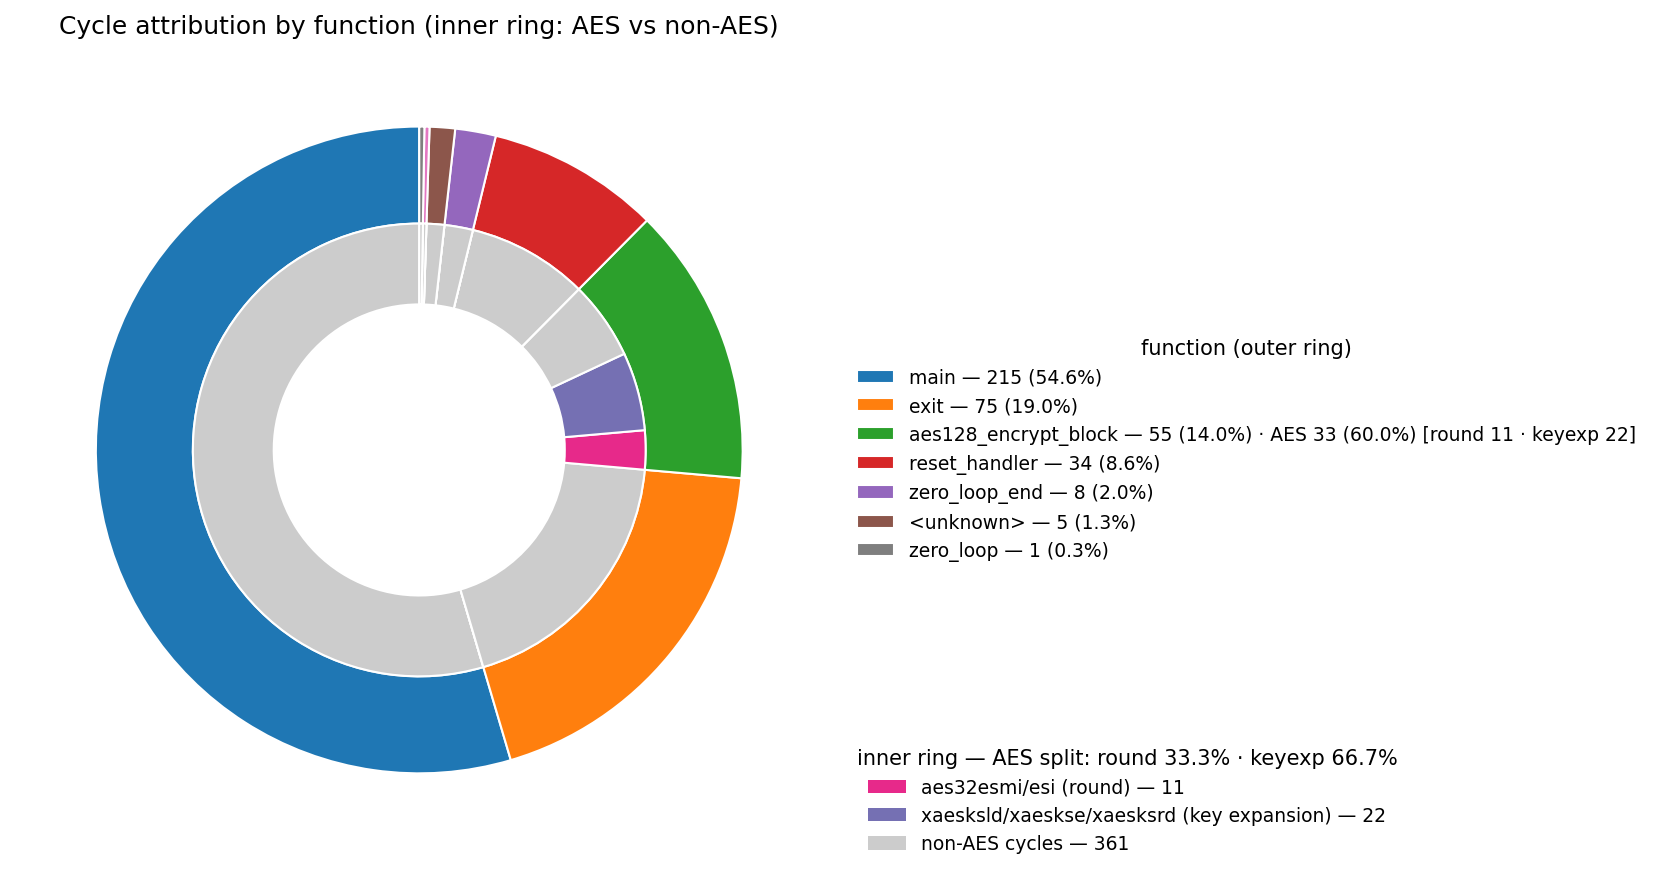
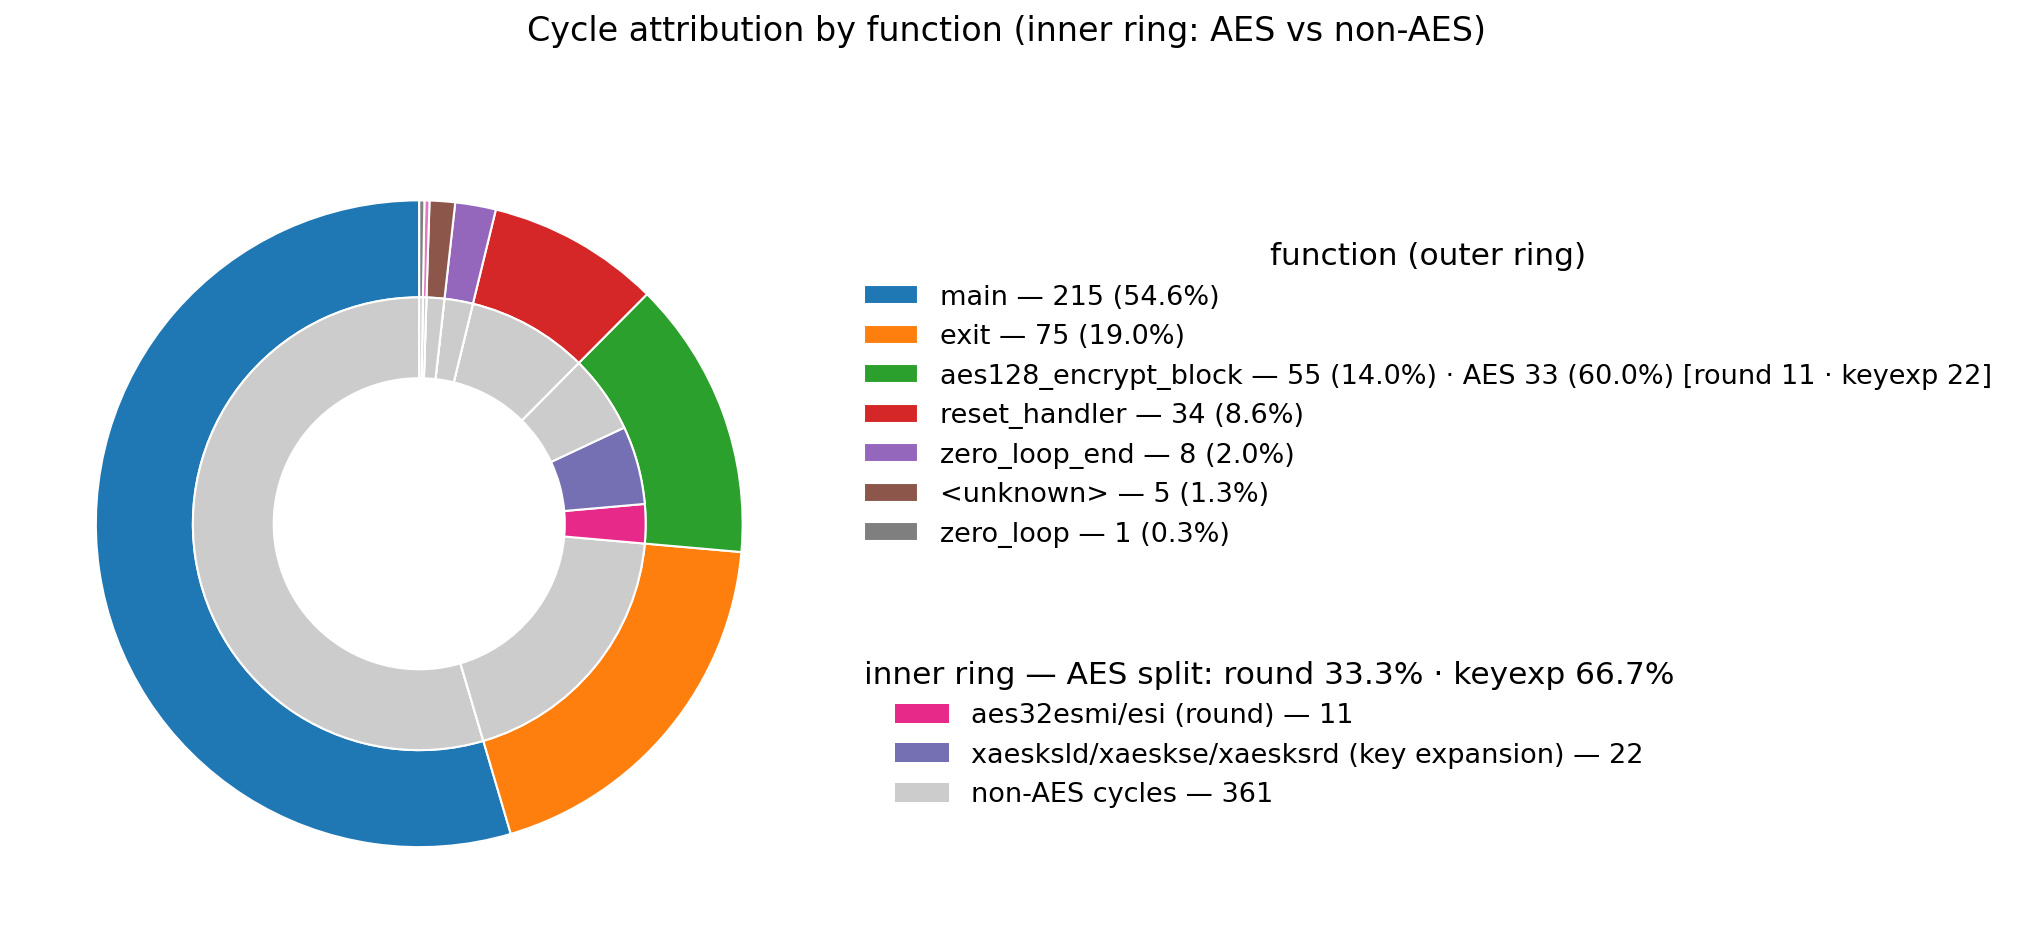
Improve visuals of function_cycles figure.

diff --git a/software/python_script/profile.py b/software/python_script/profile.py
@@ -595,8 +595,9 @@ def _plot_function_cycles(ordered, func_mnem_count, total_cycles):
                                               round_sizes, keyexp_sizes)]
     outer_legend = ax.legend(
         outer_wedges, legend_labels,
-        loc='center left', bbox_to_anchor=(1.02, 0.5),
-        fontsize=9, frameon=False, title='function (outer ring)')
+        loc='center left', bbox_to_anchor=(1.02, 0.66),
+        fontsize=13, title_fontsize=15, frameon=False,
+        title='function (outer ring)')
     ax.add_artist(outer_legend)
 
     total_round = sum(round_sizes)
@@ -619,13 +620,29 @@ def _plot_function_cycles(ordered, func_mnem_count, total_cycles):
                        f'{total_keyexp / total_aes * 100:.1f}%')
     inner_legend = ax.legend(
         handles=inner_handles,
-        loc='lower left', bbox_to_anchor=(1.02, -0.02),
-        fontsize=9, frameon=False, title=inner_title)
+        loc='center left', bbox_to_anchor=(1.02, 0.24),
+        fontsize=13, title_fontsize=15, frameon=False, title=inner_title)
 
-    ax.set_title('Cycle attribution by function '
-                 '(inner ring: AES vs non-AES)')
+    suptitle = fig.suptitle(
+        'Cycle attribution by function (inner ring: AES vs non-AES)',
+        fontsize=16, y=0.98)
+
+    # Center the title over the *full* cropped content (donut + both legends),
+    # not the figure midpoint — savefig's tight crop includes the wide legend
+    # column on the right (via bbox_extra_artists), shifting the true visual
+    # center rightward. fig.get_tightbbox() under-counts those legends, so we
+    # union the artists' own window extents instead.
+    fig.canvas.draw()
+    _r = fig.canvas.get_renderer()
+    _inv = fig.dpi_scale_trans.inverted()
+    _boxes = [a.get_window_extent(_r).transformed(_inv)
+              for a in (ax, outer_legend, inner_legend)]
+    _x0 = min(b.x0 for b in _boxes)
+    _x1 = max(b.x1 for b in _boxes)
+    suptitle.set_x(0.5 * (_x0 + _x1) / fig.get_size_inches()[0])
+
     fig.savefig(FUNC_CYCLES_PNG, dpi=150, bbox_inches='tight',
-                bbox_extra_artists=(outer_legend, inner_legend))
+                bbox_extra_artists=(outer_legend, inner_legend, suptitle))
     plt.close(fig)
 
 